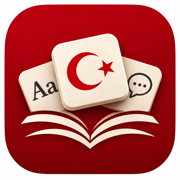
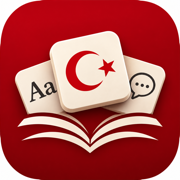
Убрать белую рамку по краям иконки
В исходном файле красный фон не доходил до самых краёв квадрата —
вместе со скруглением, которое iOS накладывает поверх своей
собственной маской, получалась двойная белая обводка. Обрезала белый
отступ и растянула красный фон до краёв.

diff --git a/sw.js b/sw.js
@@ -2,7 +2,7 @@
 // берём свежую версию (и обновляем кеш) — это на время активной разработки, чтобы
 // не словить залипание на старой версии, как уже бывало с обычным браузерным кешем.
 // Офлайн/при обрыве сети — отдаём то, что успело закешироваться.
-const CACHE_NAME = "til-mahjong-v6";
+const CACHE_NAME = "til-mahjong-v7";
 
 const APP_SHELL = [
   "./",
